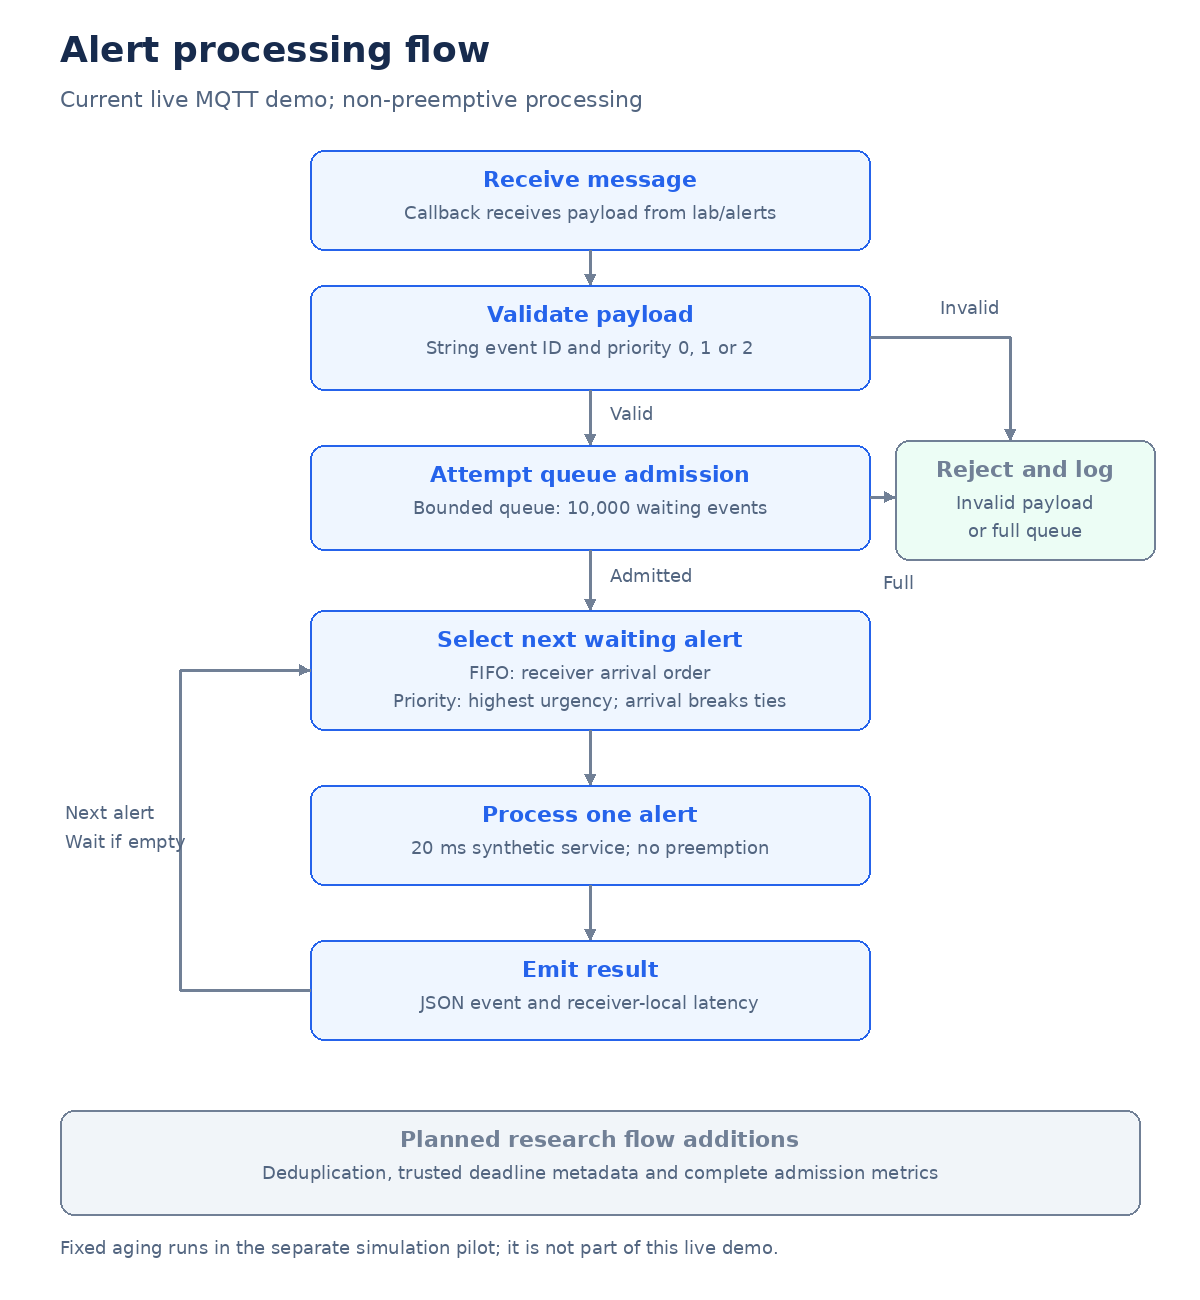
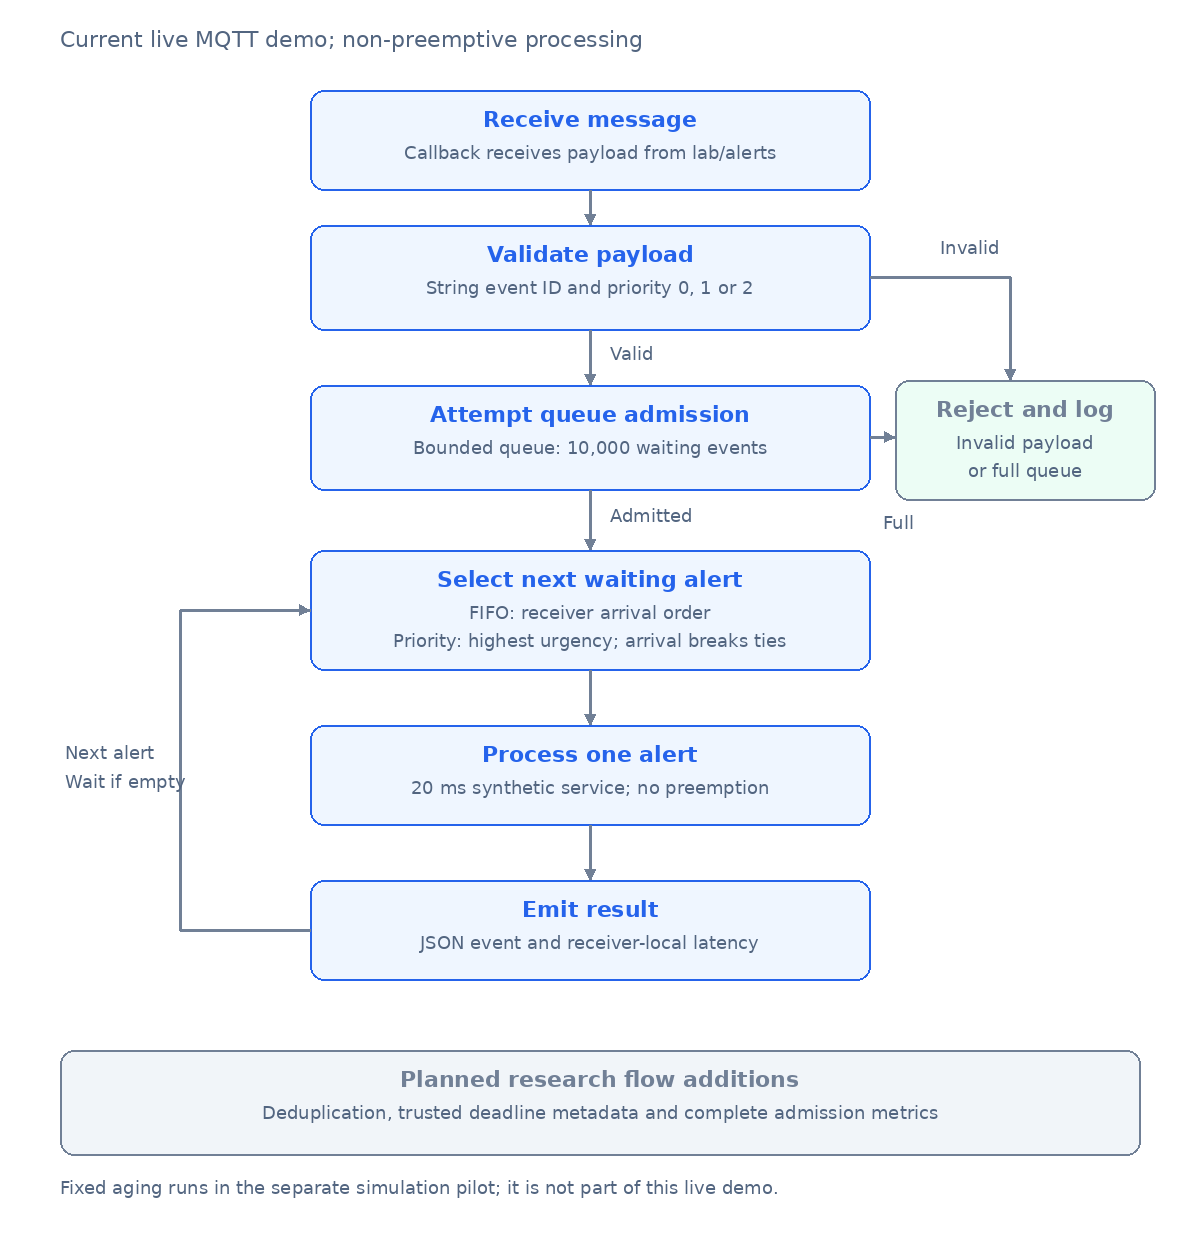
Remove duplicate image titles and trim diagram spacing (#5)

diff --git a/tools/render_diagrams.py b/tools/render_diagrams.py
@@ -31,10 +31,14 @@ class Canvas:
   tri=[(x,y),(x-12*math.cos(angle-.45),y-12*math.sin(angle-.45)),(x-12*math.cos(angle+.45),y-12*math.sin(angle+.45))]
   self.d.polygon(tri,fill=color);self.svg.append('<polygon points="'+' '.join(f'{a},{b}' for a,b in tri)+f'" fill="{color}"/>')
  def save(self,name):
-  self.im.save(OUT/(name+'.png'));(OUT/(name+'.svg')).write_text('\n'.join(self.svg+['</svg>'])+'\n')
+  # README headings supply the titles; trim the unused top margin in both formats.
+  width,height=self.im.size
+  self.im.crop((0,60,width,height)).save(OUT/(name+'.png'))
+  self.svg[1]=f'<rect x="0" y="60" width="{width}" height="{height-60}" fill="white"/>'
+  self.svg[0]=f'<svg xmlns="http://www.w3.org/2000/svg" width="{width}" height="{height-60}" viewBox="0 60 {width} {height-60}">'
+  (OUT/(name+'.svg')).write_text('\n'.join(self.svg+['</svg>'])+'\n')
 
 c=Canvas(1440,1010)
-c.text(60,35,'IoT alert processing architecture',36,bold=True)
 c.text(60,91,'Two execution paths: live demonstration and reproducible simulation',22,MUTED)
 c.text(60,160,'LIVE MQTT DEMO',20,BLUE,True)
 xs=[60,405,750,1095];w=285
@@ -57,7 +61,6 @@ c.text(60,935,'The application queue is after MQTT delivery; this design makes n
 c.save('high-level-architecture')
 
 c=Canvas(1200,1300)
-c.text(60,35,'Alert processing flow',36,bold=True)
 c.text(60,90,'Current live MQTT demo; non-preemptive processing',22,MUTED)
 x=310;w=560
 c.box(x,150,w,100,'Receive message',['Callback receives payload from lab/alerts'])
